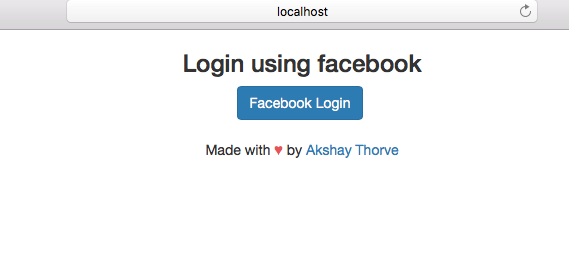
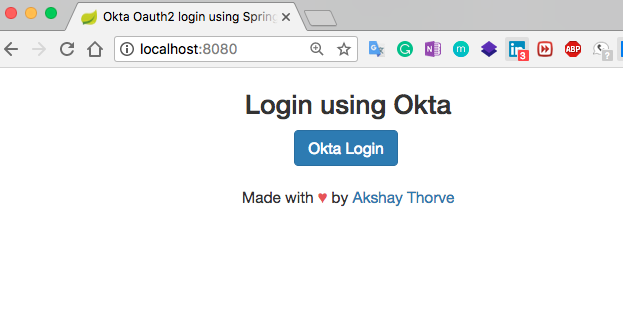
Okta Oauth2 login using Spring Boot

Changed region(s): [[0.0, 0.0, 1.0, 0.6769]]

diff --git a/README.md b/README.md
@@ -1,6 +1,8 @@
-# Facebook Oauth2 login using Spring Boot
+# Okta Oauth2 login using Spring Boot
 
-## Spring Boot, OAuth2 Authentication, Facebook API
+Simple Okta OAuth 2 authentication application with Login and Logout. This app can be intigrated with any Java, Spring or backend framework. You can extend this as per your needs.   
+
+## Spring Boot, OAuth2 Authentication, Okta API
 
 
 ## Requirements
@@ -11,7 +13,7 @@
 
 3.  Spring 5, Spring Boot
 
-4.  Facebook developer App
+4.  Okta developer App
 
 
 ## Steps to Setup
@@ -26,5 +28,25 @@
 ```bash
 mvn spring-boot:run
 ```
-
 The application will start at <http://localhost:8080>.
+
+## Snapshots
+
+```
+Landing page
+```
+<img src="src/main/resources/static/images/login.png" width="60%" >
+
+```
+
+```
+API authentication on Okta
+```
+<img src="src/main/resources/static/images/Okta_app_authentication.png" width="80%" >
+
+```
+Callback to base URL after successful authentication
+```
+<img src="src/main/resources/static/images/callback_successful_login.png" width="60%" >
+
+Feel free to use the code.
